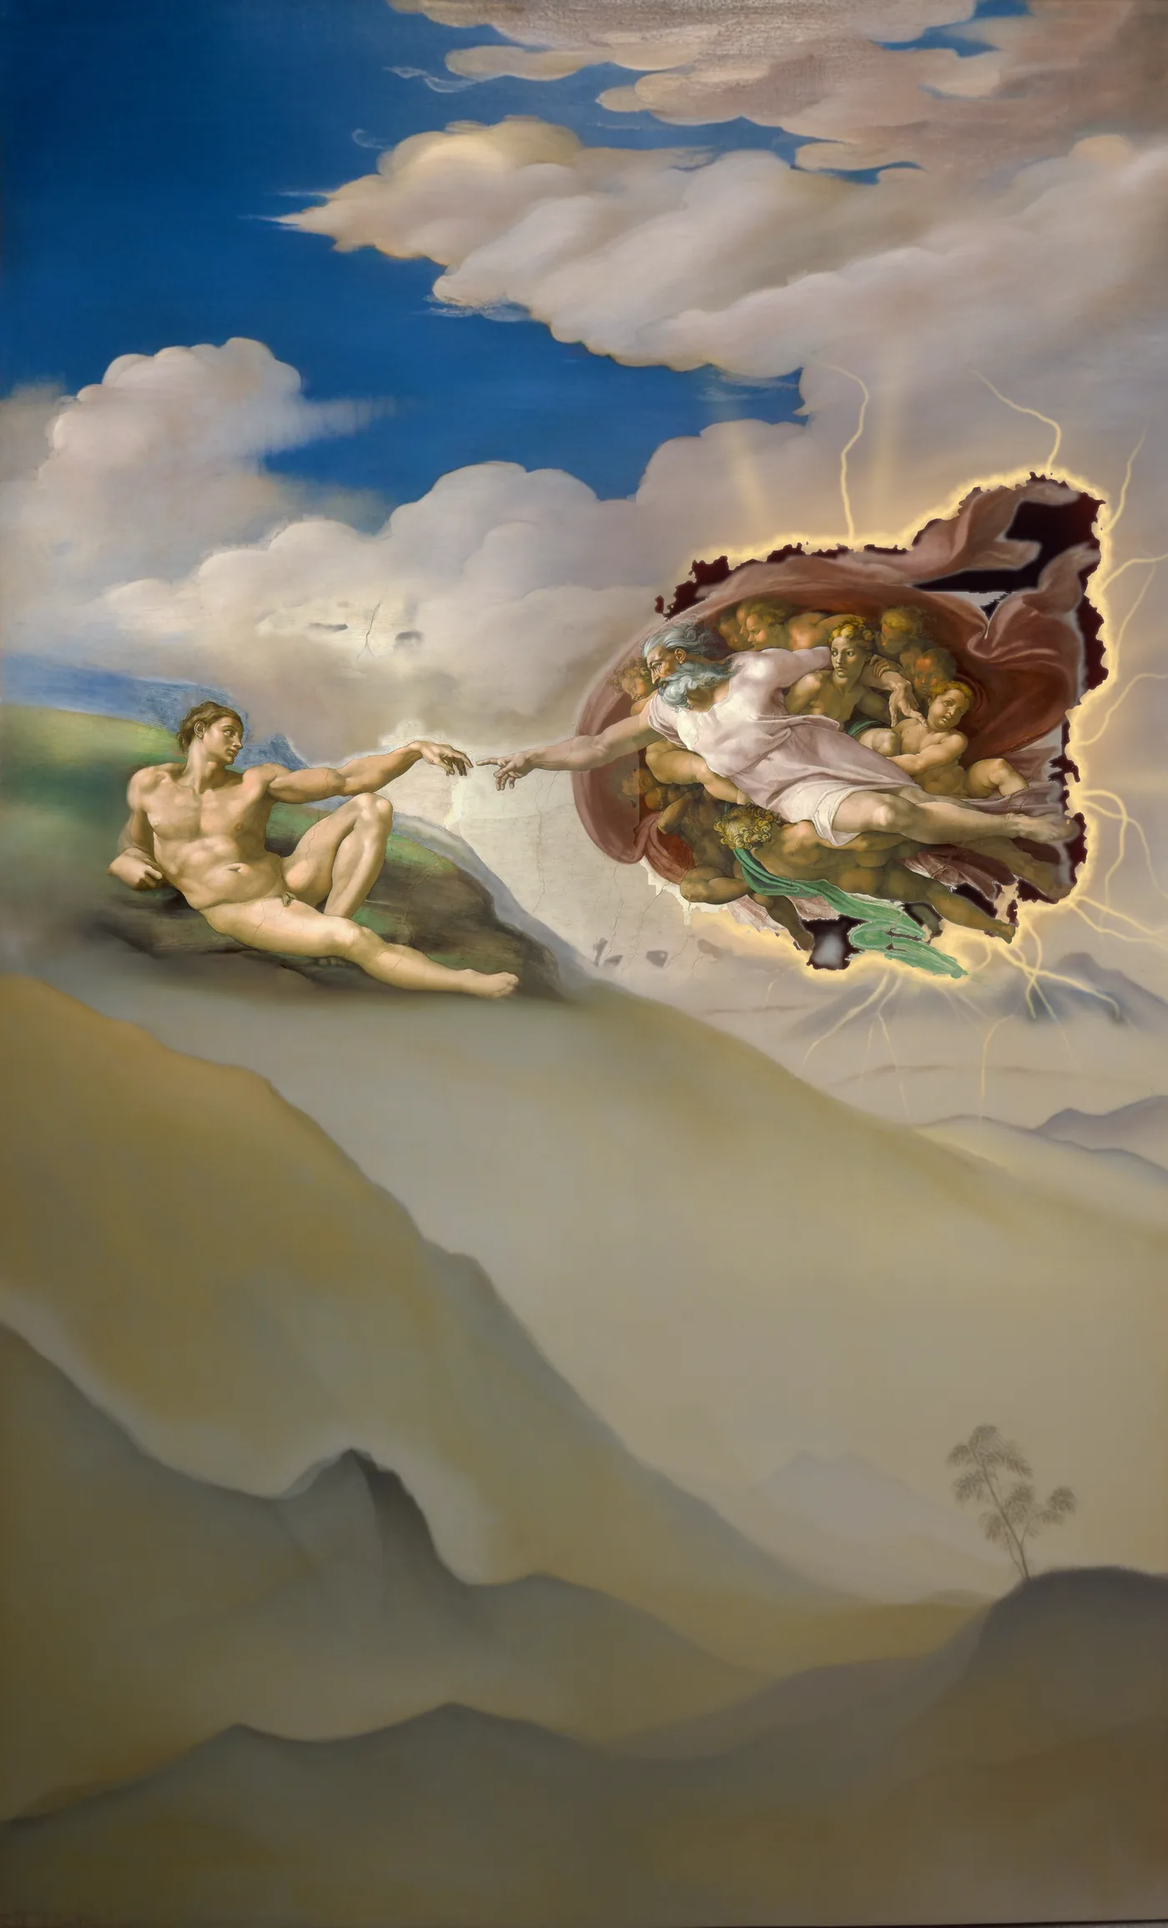
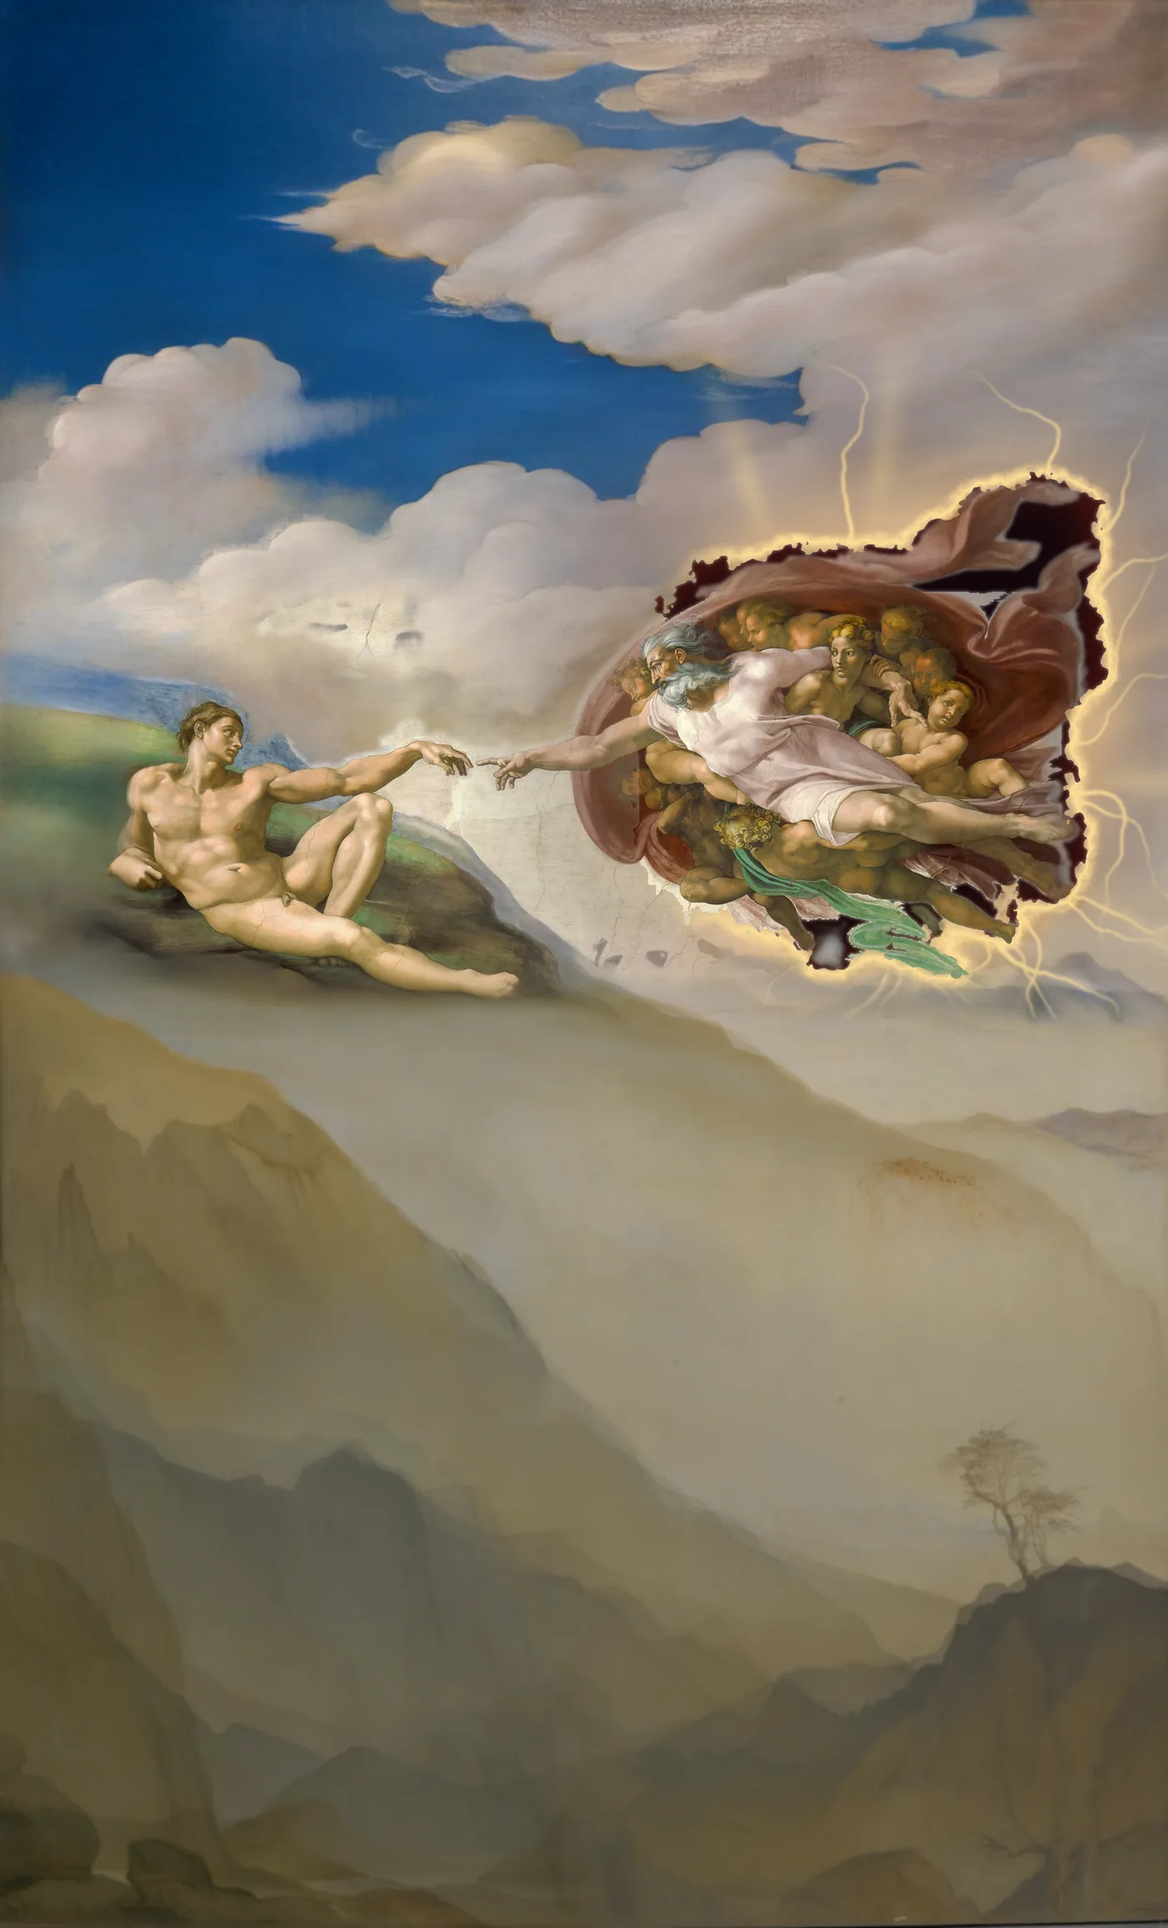
The nervous system: threads of gold light from God's brain-shaped mantle
Continuing Michelangelo's brain (Meshberger) downward from the brain stem
as a nervous system of light: the cord, the shoulder nerves sweeping out,
nerves between the ribs, the lumbar nerves and the two great nerves of
the legs (tools/nerves_light.py). Drawn live over the brushwork from
day-(tall-)nerves.webp, with pulses of light travelling down from God.
Also: the phone's ground detail pass (ridges and rocky edges).

diff --git a/public/main.js b/public/main.js
@@ -45,12 +45,12 @@ const load = src => new Promise((res, rej) => { const i = new Image(); i.onload 
 // each picture is one painting grown past Michelangelo's frame; wide and tall screens are cut from it around its focus
 const shape = innerWidth / innerHeight >= .8 ? 'wide' : 'tall';
 if (!gl) { root.classList.add('no-gl'); ready(); }
-else fetch('/img/scene.json?v=1791993889').then(r => r.json()).then(meta =>
-  Promise.all([shape === 'wide' ? 'night-wide' : 'night', shape === 'wide' ? 'night-wide-flow' : 'night-flow', shape === 'wide' ? 'day' : 'day-tall', shape === 'wide' ? 'day-flow' : 'day-tall-flow', shape === 'wide' ? 'supper' : 'supper-tall', shape === 'wide' ? 'supper-flow' : 'supper-tall-flow', shape === 'wide' ? 'day-rift' : 'day-tall-rift', shape === 'wide' ? 'supper-aura' : 'supper-tall-aura'].map(n => load(`/img/${n}.webp?v=1791993889`)))
+else fetch('/img/scene.json?v=1792030987').then(r => r.json()).then(meta =>
+  Promise.all([shape === 'wide' ? 'night-wide' : 'night', shape === 'wide' ? 'night-wide-flow' : 'night-flow', shape === 'wide' ? 'day' : 'day-tall', shape === 'wide' ? 'day-flow' : 'day-tall-flow', shape === 'wide' ? 'supper' : 'supper-tall', shape === 'wide' ? 'supper-flow' : 'supper-tall-flow', shape === 'wide' ? 'day-rift' : 'day-tall-rift', shape === 'wide' ? 'supper-aura' : 'supper-tall-aura', shape === 'wide' ? 'day-nerves' : 'day-tall-nerves'].map(n => load(`/img/${n}.webp?v=1792030987`)))
     .then(ims => paint(gl, ims, meta[shape])))
   .catch(e => { console.error(String(e && e.message || e)); root.classList.add('no-gl'); ready(); });   // log, then fall back
 
-function paint(gl, [nightImg, nightFlow, dayImg, dayFlow, supImg, supFlow, riftImg, auraImg], meta) {
+function paint(gl, [nightImg, nightFlow, dayImg, dayFlow, supImg, supFlow, riftImg, auraImg, nerveImg], meta) {
   // Each picture: its figures cut free of the plaster and placed (see place()), in a painted
   // world around it — a starry night, or a sunlit sky — so any screen shape is a whole picture.
   // Each picture is one whole painting: Michelangelo's fresco, grown past its frame in his manner.
@@ -238,7 +238,7 @@ function paint(gl, [nightImg, nightFlow, dayImg, dayFlow, supImg, supFlow, riftI
   // blocks of light, in bursts — the classical painting interrupted by something not of this world ----
   const FS_GL = `#version 300 es
   precision highp float;
-  in vec2 vp; uniform float MIX, MIX2, T; uniform sampler2D TA; out vec4 o;
+  in vec2 vp; uniform float MIX, MIX2, T; uniform sampler2D TA, TV; out vec4 o;
   ${SCENE}
   float hh(float n){ return fract(sin(n*127.1)*43758.5453); }
   // one torn strip of another painting: a fragment of the other two pictures shows through the tear
@@ -321,8 +321,14 @@ function paint(gl, [nightImg, nightFlow, dayImg, dayFlow, supImg, supFlow, riftI
     ring *= 1. - cm;
     float hv = wS * clamp(max(max(ring.r, ring.g), ring.b), 0., 1.) * (.75 + .25*hh(hb*.3 + hfr));
     if (hv > .01) { col += vec3(1., .9, .62)*ring*2.4*wS + vec3(.2,.1,0.)*ring.r; a += hv; }
+    // the nervous system: threads of gold light from God's brain-shaped mantle, with pulses travelling down them
+    vec4 nv = texture(TV, du);
+    float npl = 0.;
+    for (int i = 0; i < 3; i++) { float ph = fract(T*.22 + float(i)/3.); npl += exp(-pow((du.y - mix(.48, 1.05, ph))/.035, 2.)); }
+    float nl = wD * (nv.r*(.55 + .9*npl) + nv.g*(.18 + .45*npl));
+    if (nl > .01) { vec3 nc = mix(vec3(1., .8, .48), vec3(1., .98, .9), nv.r); col += nc*nl*1.6; a += nl; }
     if (a < .01) discard;
-    o = vec4(col/a, clamp(a*1.35, 0., 1.) * burst);
+    o = vec4(col/a, clamp(a*1.35, 0., 1.) * max(burst, step(.01, nl)));
   }`;
 
   function prog(vs, fs) {
@@ -334,7 +340,7 @@ function paint(gl, [nightImg, nightFlow, dayImg, dayFlow, supImg, supFlow, riftI
     }
     gl.linkProgram(p);
     if (!gl.getProgramParameter(p, gl.LINK_STATUS)) throw new Error(gl.getProgramInfoLog(p));
-    const u = {}; for (const n of ['A', 'T', 'MIX', 'MIX2', 'BOIL', 'B', 'RN', 'RD', 'RL', 'LJ', 'GL', 'MOON', 'LC', 'FINE[0]', 'TN', 'FN', 'TD', 'FD', 'TL', 'FL', 'TG', 'TA', 'TC', 'FN_', 'FD_', 'FL_', 'HALO']) u[n] = gl.getUniformLocation(p, n);
+    const u = {}; for (const n of ['A', 'T', 'MIX', 'MIX2', 'BOIL', 'B', 'RN', 'RD', 'RL', 'LJ', 'GL', 'MOON', 'LC', 'FINE[0]', 'TN', 'FN', 'TD', 'FD', 'TL', 'FL', 'TG', 'TA', 'TC', 'FN_', 'FD_', 'FL_', 'HALO', 'TV']) u[n] = gl.getUniformLocation(p, n);
     return { p, u };
   }
   const SP = prog(VS, FS), BG = prog(VS_BG, FS_BG), GLX = prog(VS_BG, FS_GL);
@@ -350,7 +356,7 @@ function paint(gl, [nightImg, nightFlow, dayImg, dayFlow, supImg, supFlow, riftI
     gl.texParameteri(gl.TEXTURE_2D, gl.TEXTURE_WRAP_S, gl.CLAMP_TO_EDGE); gl.texParameteri(gl.TEXTURE_2D, gl.TEXTURE_WRAP_T, gl.CLAMP_TO_EDGE);
     return t;
   }
-  const tex = { TN: texture(nightImg), FN: texture(nightFlow), TD: texture(dayImg), FD: texture(dayFlow), TL: texture(supImg), FL: texture(supFlow), TG: texture(riftImg), TA: texture(auraImg) };
+  const tex = { TN: texture(nightImg), FN: texture(nightFlow), TD: texture(dayImg), FD: texture(dayFlow), TL: texture(supImg), FL: texture(supFlow), TG: texture(riftImg), TA: texture(auraImg), TV: texture(nerveImg) };
 
   /* a brush: bristle streaks in a tapered stroke, fat at the loaded head, thin at the dry tail (two loads stacked) */
   function bristles() {
@@ -479,7 +485,7 @@ function paint(gl, [nightImg, nightFlow, dayImg, dayFlow, supImg, supFlow, riftI
   }
   function bind(P) {
     gl.uniform1f(P.u.A, A); gl.uniform4fv(P.u.RN, RN); gl.uniform4fv(P.u.RD, RD); gl.uniform4fv(P.u.RL, RL); gl.uniform2fv(P.u.LJ, LJ); if (P.u.TC) gl.uniform1f(P.u.TC, still ? 0 : performance.now() / 1000); if (P.u.HALO) gl.uniform3fv(P.u.HALO, meta.halo || [0, 0, 0]); if (P.u.FN_) { gl.uniform2fv(P.u.FN_, [MOON[0], 1 - MOON[1]]); gl.uniform2fv(P.u.FD_, [meta.hands[0], 1 - meta.hands[1]]); gl.uniform2fv(P.u.FL_, [meta.christ[0], 1 - meta.christ[1] - .06]); } gl.uniform2fv(P.u.GL, GLp); gl.uniform3fv(P.u.MOON, MOON); gl.uniform3fv(P.u['FINE[0]'], FINE); gl.uniform2fv(P.u.LC, LC);
-    ['TN', 'FN', 'TD', 'FD', 'TL', 'FL', 'TG', 'TA'].forEach((n, i) => { gl.activeTexture(gl.TEXTURE1 + i); gl.bindTexture(gl.TEXTURE_2D, tex[n]); gl.uniform1i(P.u[n], 1 + i); });
+    ['TN', 'FN', 'TD', 'FD', 'TL', 'FL', 'TG', 'TA', 'TV'].forEach((n, i) => { gl.activeTexture(gl.TEXTURE1 + i); gl.bindTexture(gl.TEXTURE_2D, tex[n]); gl.uniform1i(P.u[n], 1 + i); });
   }
 
   const gt = (location.search.match(/[?&]gt=([\d.]+)/) || [])[1];   // test hook: ?gt=2.3 freezes the glitch clock

diff --git a/public/index.html b/public/index.html
@@ -19,7 +19,7 @@
 <link rel="preconnect" href="https://fonts.googleapis.com">
 <link rel="preconnect" href="https://fonts.gstatic.com" crossorigin>
 <link rel="stylesheet" href="https://fonts.googleapis.com/css2?family=Cinzel:wght@400;500&family=Cormorant+Garamond:ital,wght@0,300;0,400;1,300;1,400&display=swap">
-<link rel="stylesheet" href="/style.css?v=1791993889">
+<link rel="stylesheet" href="/style.css?v=1792030987">
 <script>document.documentElement.classList.add('js')</script>
 </head>
 <body>
@@ -85,6 +85,6 @@
 
 
 <noscript><style>.reveal,.reveal-words,.display .line>span{opacity:1!important;transform:none!important}</style></noscript>
-<script type="module" src="/main.js?v=1791993889"></script>
+<script type="module" src="/main.js?v=1792030987"></script>
 </body>
 </html>

diff --git a/tools/nerves.py b/tools/nerves.py
@@ -1,0 +1,96 @@
+# Continues the "brain" of God's mantle downward as a nervous system: a spinal cord from the brain stem with branching
+# nerves, sketched as crimson mantle-cloth, then painted in Michelangelo's manner. Works on the tall day picture.
+import sys, gc, numpy as np
+from PIL import Image, ImageDraw, ImageFilter
+src, out = sys.argv[1], sys.argv[2]; paint = len(sys.argv) > 3 and sys.argv[3] == 'paint'
+img = Image.open(src).convert('RGB'); W, H = img.size
+rng = np.random.default_rng(7)
+S = 4                                                    # draw supersampled for smooth edges
+shape = Image.new('L', (W * S // 2, H * S // 2), 0); dl = ImageDraw.Draw(shape)
+col = Image.new('RGB', shape.size, (0, 0, 0)); dc = ImageDraw.Draw(col)
+k = S / 2
+def stroke(pts, w0, w1, shade):
+    n = len(pts)
+    for i in range(n - 1):
+        t = i / (n - 1); w = (w0 + (w1 - w0) * t) * k
+        (xa, ya), (xb, yb) = pts[i], pts[i + 1]
+        dl.line([(xa * k, ya * k), (xb * k, yb * k)], fill=255, width=max(1, int(w)))
+        dl.ellipse([xb * k - w / 2, yb * k - w / 2, xb * k + w / 2, yb * k + w / 2], fill=255)
+        c = tuple(int(v) for v in np.array([178, 66, 58]) * shade * (1.12 - .3 * t))
+        dc.line([(xa * k, ya * k), (xb * k, yb * k)], fill=c, width=max(1, int(w)))
+        dc.ellipse([xb * k - w / 2, yb * k - w / 2, xb * k + w / 2, yb * k + w / 2], fill=c)
+def curve(x0, y0, ang, L, bend, n=40):
+    pts = [(x0, y0)]; a = ang
+    for i in range(n):
+        a += bend / n + rng.normal(0, .025); x0 += np.cos(a) * L / n; y0 += np.sin(a) * L / n; pts.append((x0, y0))
+    return pts
+# the spinal cord
+top, bot = 1585, H - 60
+ys = np.linspace(top, bot, 120); xs = 1440 + 70 * np.sin((ys - top) / (bot - top) * 2.4) - 40 * (ys - top) / (bot - top)
+cord = list(zip(xs, ys))[:int(.72 * 120)]; stroke(cord, 120, 70, 1.0)
+cord = list(zip(xs, ys))
+# nerves, as in the body: long plexus nerves at the shoulders (toward the arms), short ones between the ribs,
+# the lumbar nerves, then the cord parting into the two great nerves of the legs
+def pair(f, L, ang0, bend, w0, nb):
+    j = int(f * 119); cx, cy = cord[j]
+    for side in (-1, 1):
+        ang = np.pi / 2 - side * ang0
+        pts = curve(cx, cy, ang, L * rng.uniform(.9, 1.1), side * bend); stroke(pts, w0, 2.5, .92)
+        for _ in range(nb):
+            q = pts[int(rng.uniform(.3, .85) * len(pts))]
+            bp = curve(q[0], q[1], ang + side * rng.uniform(.25, .7), L * rng.uniform(.25, .45), side * .6, 22); stroke(bp, w0 * .45, 4, .85)
+pair(.05, 600, 1.42, 1.0, 46, 2)            # brachial plexus: out toward the arms, drooping
+pair(.11, 520, 1.30, .9, 38, 2)
+for f in np.linspace(.2, .5, 4):            # between the ribs
+    pair(f, rng.uniform(220, 300), 1.15, .5, 24, 0)
+pair(.58, 330, 1.0, .5, 28, 1)              # lumbar
+pair(.64, 380, .9, .45, 30, 1)
+# the cord parts into the two great nerves of the legs
+j = int(.7 * 119); cx, cy = cord[j]
+for side in (-1, 1):
+    pts = curve(cx, cy, np.pi / 2 - side * .28, (H - 60 - cy) * 1.02, side * -.18, 50); stroke(pts, 70, 30, .95)
+    for f in (.25, .5, .72):
+        q = pts[int(f * len(pts))]
+        bp = curve(q[0], q[1], np.pi / 2 - side * rng.uniform(.6, 1.0), rng.uniform(140, 240), side * .4, 22); stroke(bp, 18, 4, .85)
+shape = shape.resize((W, H), Image.LANCZOS).filter(ImageFilter.GaussianBlur(1.2)); col = col.resize((W, H), Image.LANCZOS)
+# light from the upper left: lit edge, shadowed edge
+sh = np.asarray(shape, np.float32) / 255
+gy, gx = np.gradient(np.asarray(shape.filter(ImageFilter.GaussianBlur(4)), np.float32))
+lit = np.clip((-gx - gy) * .02, -1, 1)[..., None]
+c = np.asarray(col, np.float32); c = c * (1 + .5 * lit) + 50 * np.clip(lit, 0, 1)
+yy_, xx_ = np.mgrid[0:H, 0:W]
+folds = .5 + .5 * np.sin(yy_ * .045 + xx_ * .02 + 3 * np.sin(yy_ * .006))
+c = c * (.78 + .38 * folds[..., None])
+a = np.asarray(img, np.float32)
+sketch = a * (1 - sh[..., None]) + c * sh[..., None]
+S_ = Image.fromarray(np.clip(sketch, 0, 255).astype(np.uint8))
+S_.save(out.replace('.png', '-sketch.png')); S_.resize((486, round(486 * H / W))).save(out.replace('.png', '-sketch.jpg'), quality=85)
+shape.save(out.replace('.png', '-mask.png'))
+if paint:
+    import torch
+    from diffusers import StableDiffusionXLInpaintPipeline
+    P = ("Michelangelo, Sistine Chapel ceiling fresco: God's great crimson mantle continuing downward as one long twisting length of heavy drapery, "
+         "billowing folds branching off to either side and parting into two at the bottom, deep sculptural folds, strong light from the upper left, "
+         "rose highlights and dark crimson shadows, monumental, buon fresco texture, masterpiece")
+    N = "person, figure, hand, arm, face, body, ghost, transparent, see-through, blood, gore, medical illustration, text, blurry, cartoon, 3d render, photo"
+    pipe = StableDiffusionXLInpaintPipeline.from_pretrained("diffusers/stable-diffusion-xl-1.0-inpainting-0.1", torch_dtype=torch.float16, variant="fp16").to("mps")
+    pipe.enable_attention_slicing()
+    mk = shape.filter(ImageFilter.MaxFilter(7)).filter(ImageFilter.GaussianBlur(2))
+    res = np.asarray(S_, np.float32).copy(); acc = np.zeros((H, W, 1), np.float32); fine = np.zeros_like(res)
+    ys0 = list(range(1450, H - 1024, 700)) + [H - 1024]; kk = 0
+    for y0 in ys0:
+        for x0 in (max(0, int(xs.mean()) - 512 - 380), max(0, int(xs.mean()) - 512 + 380)):
+            x0 = min(W - 1024, x0)
+            crop = S_.crop((x0, y0, x0 + 1024, y0 + 1024)); mc = mk.crop((x0, y0, x0 + 1024, y0 + 1024))
+            r = pipe(prompt=P, negative_prompt=N, image=crop, mask_image=mc, width=1024, height=1024, num_inference_steps=40,
+                     guidance_scale=7.5, strength=.42, generator=torch.Generator("cpu").manual_seed(40 + kk)).images[0]
+            w = np.ones((1024, 1024), np.float32); ramp = np.linspace(0, 1, 160)
+            w[:160] *= ramp[:, None]; w[-160:] *= ramp[::-1][:, None]; w[:, :160] *= ramp[None]; w[:, -160:] *= ramp[::-1][None]
+            fine[y0:y0+1024, x0:x0+1024] += np.asarray(r, np.float32) * w[..., None]; acc[y0:y0+1024, x0:x0+1024] += w[..., None]
+            kk += 1; gc.collect(); torch.mps.empty_cache(); print('tile', kk, flush=True)
+    fm = np.where(acc > 1e-3, fine / np.maximum(acc, 1e-4), res)
+    mm = np.asarray(mk, np.float32)[..., None] / 255
+    final = res * (1 - mm) + fm * mm
+    Image.fromarray(np.clip(final, 0, 255).astype(np.uint8)).save(out)
+    Image.fromarray(np.clip(final, 0, 255).astype(np.uint8)).resize((486, round(486 * H / W))).save(out.replace('.png', '-s.jpg'), quality=85)
+    print('saved', flush=True)

diff --git a/tools/nerves_light.py b/tools/nerves_light.py
@@ -1,0 +1,52 @@
+# The nervous system continuing from the brain-shaped mantle, drawn as fine threads of gold light
+# (like the burning edge of the rift and the lightning around God). Draws on the tall day picture.
+import sys, numpy as np
+from PIL import Image, ImageDraw, ImageFilter
+src, out = sys.argv[1], sys.argv[2]
+img = Image.open(src).convert('RGB'); W, H = img.size
+rng = np.random.default_rng(7); S = 2
+L = Image.new('L', (W * S, H * S), 0); d = ImageDraw.Draw(L)
+def stroke(pts, w0, w1, lum=255):
+    n = len(pts)
+    for i in range(n - 1):
+        t = i / (n - 1); w = max(1, (w0 + (w1 - w0) * t) * S)
+        (xa, ya), (xb, yb) = pts[i], pts[i + 1]
+        d.line([(xa * S, ya * S), (xb * S, yb * S)], fill=int(lum * (1 - .35 * t)), width=int(w))
+def curve(x0, y0, ang, Ln, bend, n=48):
+    pts = [(x0, y0)]; a = ang
+    for i in range(n):
+        a += bend / n + rng.normal(0, .03); x0 += np.cos(a) * Ln / n; y0 += np.sin(a) * Ln / n; pts.append((x0, y0))
+    return pts
+top, bot = 1585, H - 60
+ys = np.linspace(top, bot, 160); xs = 1440 + 70 * np.sin((ys - top) / (bot - top) * 2.4) - 40 * (ys - top) / (bot - top)
+cord = list(zip(xs, ys)); stroke(cord[:int(.72 * 160)], 11, 7)
+def pair(f, Ln, ang0, bend, w0, nb):
+    cx, cy = cord[int(f * 159)]
+    for side in (-1, 1):
+        ang = np.pi / 2 - side * ang0
+        pts = curve(cx, cy, ang, Ln * rng.uniform(.9, 1.1), side * bend); stroke(pts, w0, .8)
+        for _ in range(nb):
+            q = pts[int(rng.uniform(.3, .85) * len(pts))]
+            stroke(curve(q[0], q[1], ang + side * rng.uniform(.25, .7), Ln * rng.uniform(.25, .45), side * .6, 24), w0 * .5, .6, 220)
+pair(.05, 640, 1.42, 1.1, 5, 5); pair(.10, 560, 1.30, 1.0, 4.5, 4)
+for f in np.linspace(.17, .52, 7): pair(f, rng.uniform(190, 280), 1.15, .45, 2.6, 1)
+pair(.58, 330, 1.0, .5, 3.5, 2); pair(.64, 380, .9, .45, 3.5, 2)
+cx, cy = cord[int(.7 * 159)]
+for side in (-1, 1):
+    pts = curve(cx, cy, np.pi / 2 - side * .28, (H - 60 - cy) * 1.02, side * -.18, 60); stroke(pts, 7, 2.5)
+    for f in (.25, .5, .72):
+        q = pts[int(f * len(pts))]
+        stroke(curve(q[0], q[1], np.pi / 2 - side * rng.uniform(.6, 1.0), rng.uniform(140, 240), side * .4, 24), 2.4, .6, 220)
+L = L.resize((W, H), Image.LANCZOS)
+c = np.asarray(L, np.float32) / 255
+g1 = np.asarray(L.filter(ImageFilter.GaussianBlur(5)), np.float32) / 255
+g2 = np.asarray(L.filter(ImageFilter.GaussianBlur(18)), np.float32) / 255
+g3 = np.asarray(L.filter(ImageFilter.GaussianBlur(60)), np.float32) / 255
+a = np.asarray(img, np.float32)
+gold = np.array([255, 200, 115], np.float32); white = np.array([255, 249, 232], np.float32)
+o = a + gold * (g3[..., None] * .5 + g2[..., None] * .9 + g1[..., None] * .9) * .5
+o = o * (1 - c[..., None]) + white * c[..., None]
+Image.fromarray(np.clip(o, 0, 255).astype(np.uint8)).save(out)
+L.save(out.replace('.png', '-mask.png'))
+Image.fromarray(np.clip(o, 0, 255).astype(np.uint8)).resize((486, round(486 * H / W))).save(out.replace('.png', '-s.jpg'), quality=85)
+Image.fromarray(np.clip(o, 0, 255).astype(np.uint8)).crop((900, 1450, 1944, 2650)).resize((700, 805)).save(out.replace('.png', '-z.jpg'), quality=85)

diff --git a/tools/drape2.py b/tools/drape2.py
@@ -1,0 +1,37 @@
+# Second pass on the tablecloth's two ends, so the whole table hangs evenly to the floor like the middle.
+import gc, torch, numpy as np
+from PIL import Image, ImageFilter
+from diffusers import StableDiffusionXLInpaintPipeline
+img = Image.open('ls/supper-drape.png').convert('RGB'); W, H = img.size
+Y0, Y1 = 1078, 1262
+a = np.asarray(img, np.float32).copy()
+mid = a[Y0:Y1, 1000:1500]                                       # the good middle: tile it across the ends as the start
+for x0 in list(range(115, 1000, 500)) + list(range(1500, 2465, 500)):
+    w = min(500, 2465 - x0, (1000 - x0) if x0 < 1000 else 500)
+    a[Y0:Y1, x0:x0 + w] = mid[:, :w]
+pre = Image.fromarray(np.clip(a, 0, 255).astype(np.uint8))
+m = np.zeros((H, W), np.float32); m[Y0 - 10:Y1 + 6, 109:1010] = 1; m[Y0 - 10:Y1 + 6, 1490:2471] = 1
+mask = Image.fromarray((m * 255).astype(np.uint8)).filter(ImageFilter.GaussianBlur(4))
+P = ("Leonardo da Vinci, The Last Supper fresco: the long white linen tablecloth hanging straight down to the floor in soft vertical "
+     "folds, opaque cloth, even hem just above the floor, faded fresco texture, masterpiece")
+N = "transparent, see-through, table legs, bench, feet, legs, people, wood, door, text, blurry, ghost"
+pipe = StableDiffusionXLInpaintPipeline.from_pretrained("diffusers/stable-diffusion-xl-1.0-inpainting-0.1", torch_dtype=torch.float16, variant="fp16").to("mps")
+pipe.enable_attention_slicing()
+out = np.asarray(pre, np.float32).copy()
+for k, x0 in enumerate((0, 1576)):
+    y0 = H - 1024
+    crop = pre.crop((x0, y0, x0 + 1024, y0 + 1024)); mc = mask.crop((x0, y0, x0 + 1024, y0 + 1024))
+    r = pipe(prompt=P, negative_prompt=N, image=crop, mask_image=mc, width=1024, height=1024, num_inference_steps=40,
+             guidance_scale=8, strength=.75, generator=torch.Generator("cpu").manual_seed(51 + k)).images[0]
+    mm = np.asarray(mc, np.float32)[..., None] / 255
+    out[y0:y0+1024, x0:x0+1024] = out[y0:y0+1024, x0:x0+1024] * (1 - mm) + np.asarray(r, np.float32) * mm
+    gc.collect(); torch.mps.empty_cache(); print('tile', k + 1, flush=True)
+F = Image.fromarray(np.clip(out, 0, 255).astype(np.uint8)); F.save('ls/supper-drape2.png')
+t = Image.open('/Users/f/Sites/foundation/src/grown/supper-tall.png').convert('RGB')
+cc = F.crop((520, 0, 2080, H)).resize((2000, round(H * 2000 / 1560)), Image.LANCZOS)
+dm = Image.new('L', (W, H), 0); dm.paste(255, (109, Y0 - 14, 2471, Y1 + 6)); dm = dm.filter(ImageFilter.GaussianBlur(4))
+mc2 = dm.crop((520, 0, 2080, H)).resize((2000, round(H * 2000 / 1560)), Image.LANCZOS)
+big = Image.new('RGB', (2000, cc.height + 1650)); big.paste(cc, (0, 900)); bm = Image.new('L', big.size, 0); bm.paste(mc2, (0, 900))
+big = big.crop((50, 208, 1930, 208 + t.height)); bm = bm.crop((50, 208, 1930, 208 + t.height))
+t.paste(big, (0, 0), bm); t.save('ls/supper-tall-drape2.png')
+F.crop((0, 820, 2600, 1355)).resize((1300, 268)).save('ls/drape2-full.jpg', quality=85); print('saved', flush=True)
